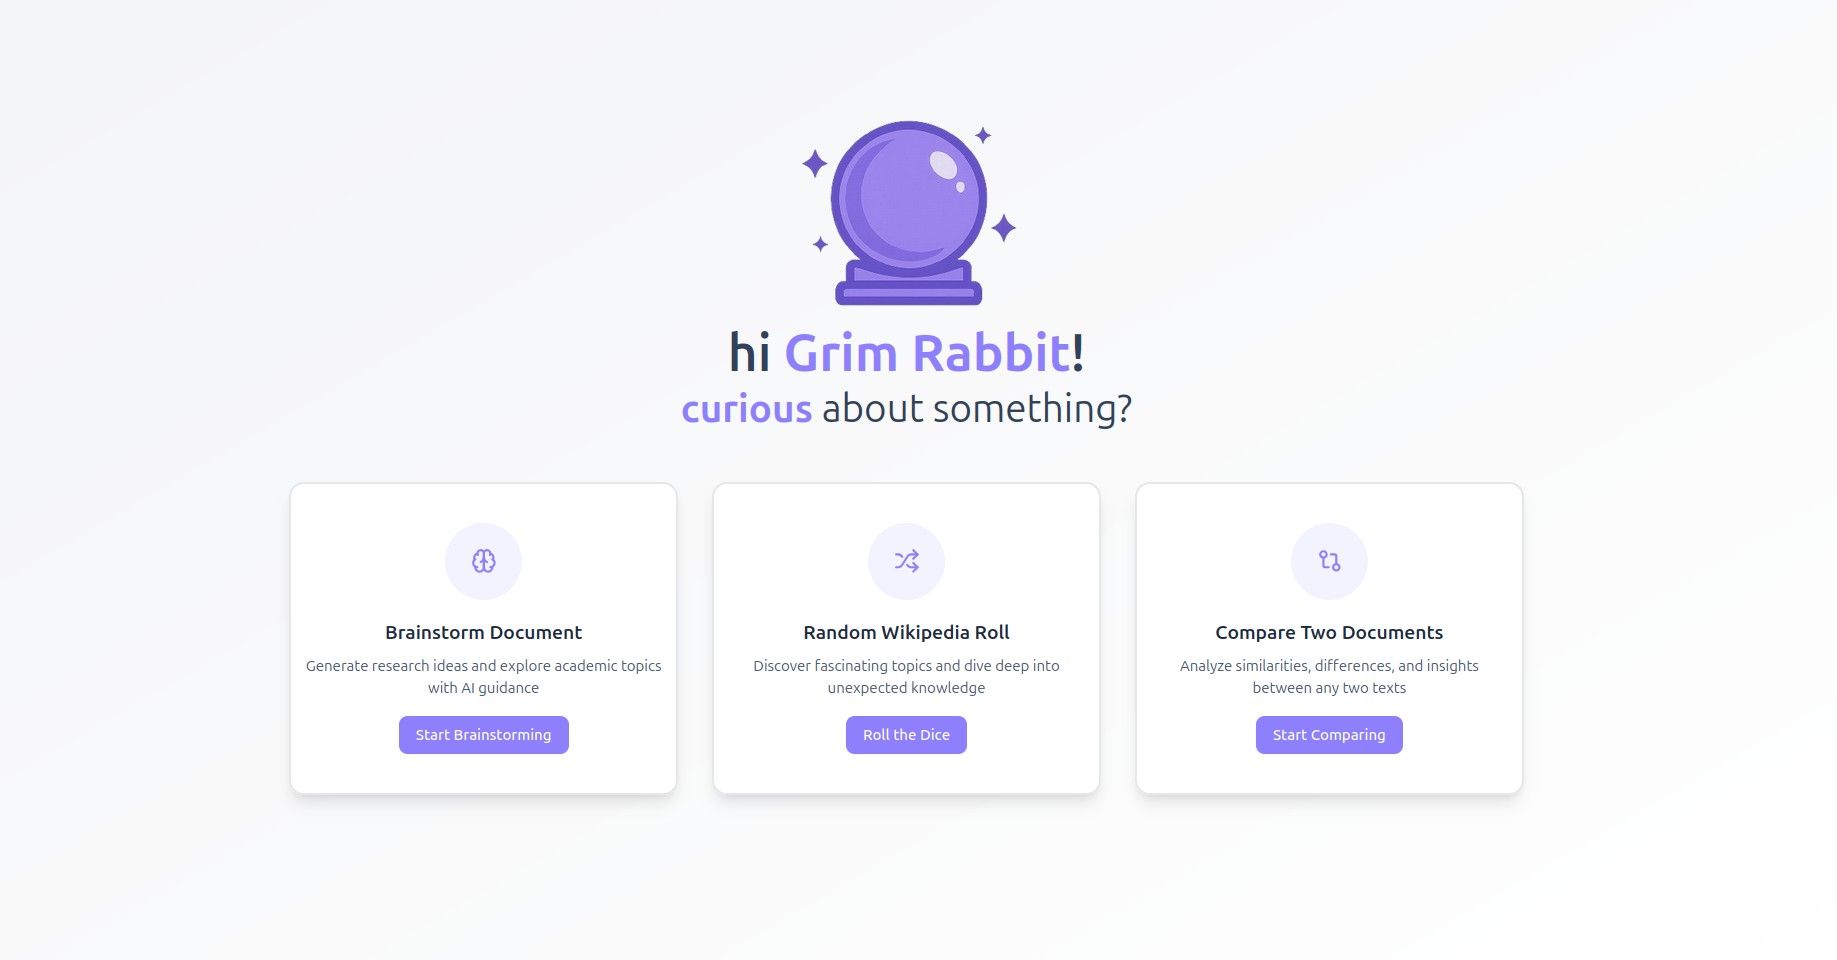
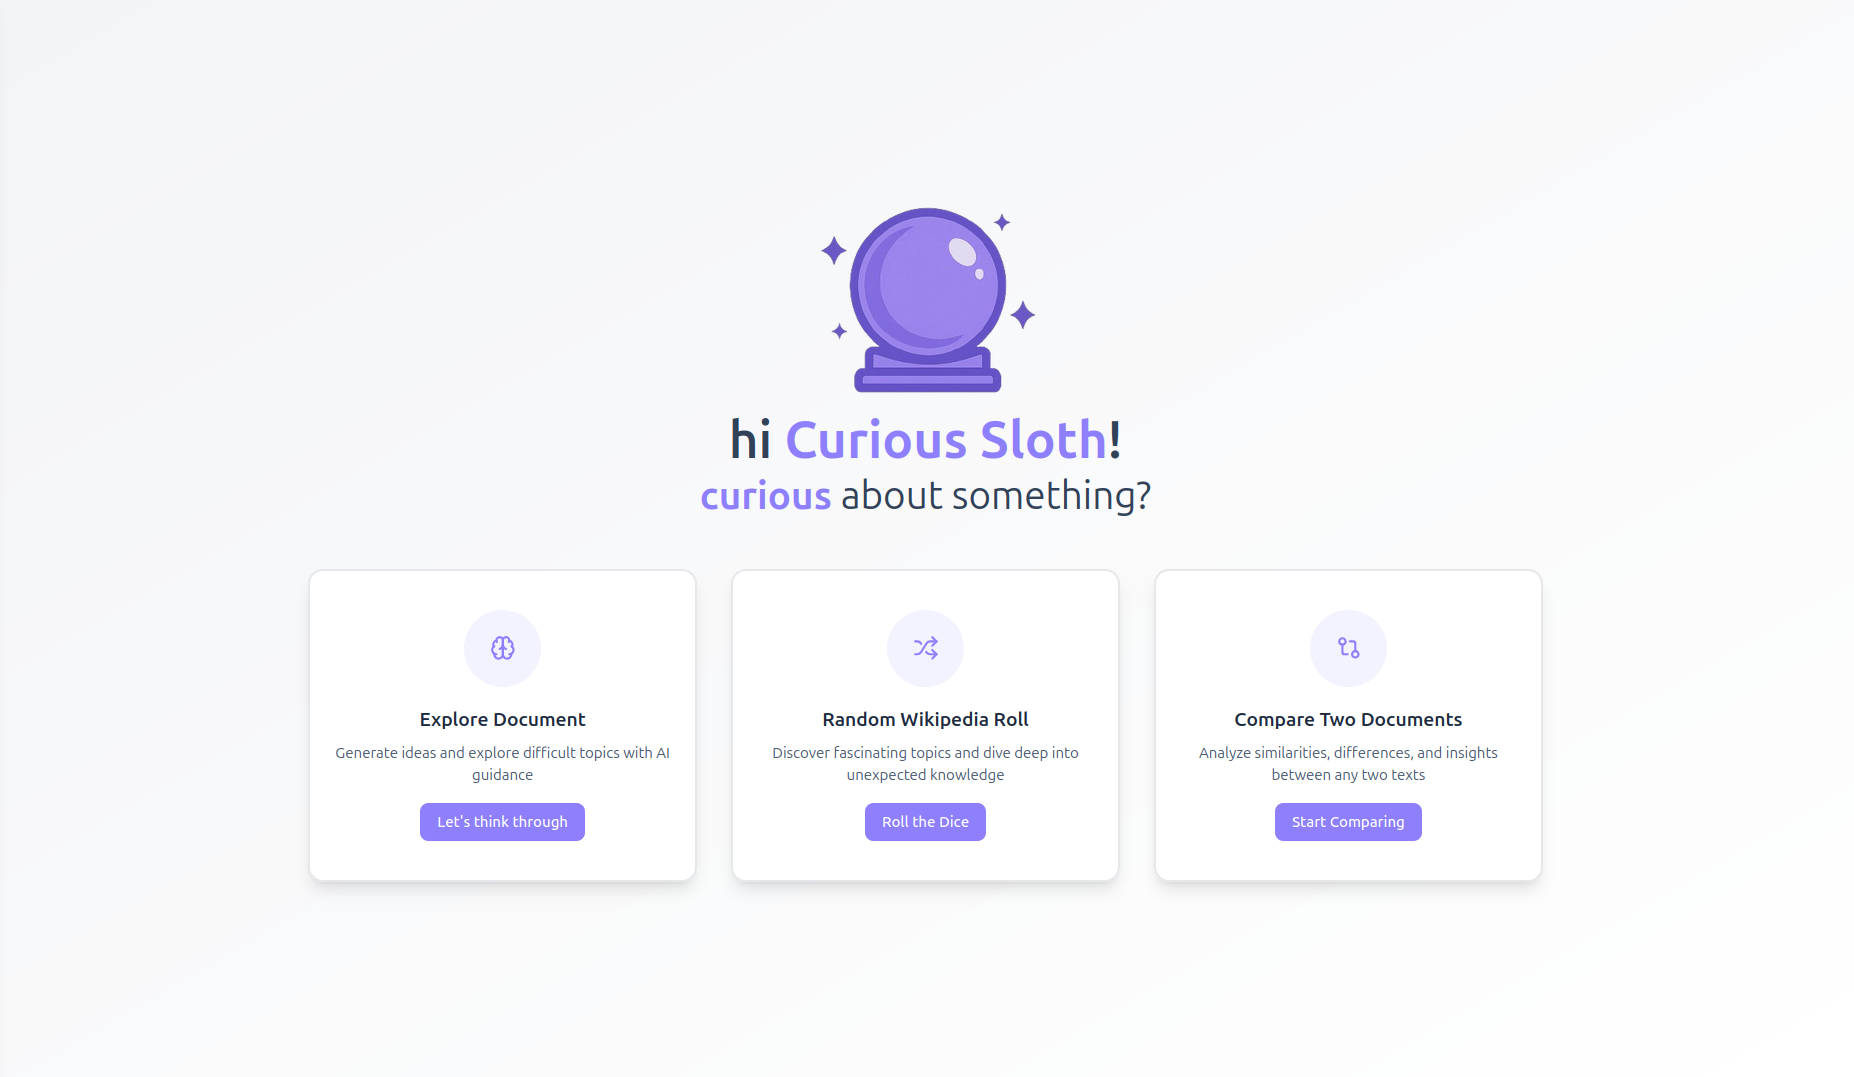
enhancement: ui fixes (#13)
* enhancement: ui titles

* enhancement: updated home

* enhancement: web view name

diff --git a/client/src/pages/LandingPage.jsx b/client/src/pages/LandingPage.jsx
@@ -4,7 +4,7 @@ import { Button } from "@/components/ui/button"
 import { Card, CardContent } from "@/components/ui/card"
 import { getStoredUsername } from "../lib/client.util"
 import logo from "@/assets/logo.png";
-import { Link, useLocation } from "react-router-dom"
+import { Link } from "react-router-dom"
 
 
 export default function LandingPage() {
@@ -18,10 +18,10 @@ export default function LandingPage() {
 
   const features = [
     {
-      title: "Brainstorm Document",
+      title: "Explore Document",
       icon: <Brain className="w-6 h-6 text-[#8E80FC]" />,
-      description: "Generate research ideas and explore academic topics with AI guidance",
-      action: "Start Brainstorming",
+      description: "Generate ideas and explore difficult topics with AI guidance",
+      action: "Let's think through",
       featureKey: "brainstorm",
       link: "/brainstorm-document"
     },

diff --git a/client/src/pages/ResearchDocument.jsx b/client/src/pages/ResearchDocument.jsx
@@ -31,7 +31,7 @@ export default function ResearchDocument() {
     },
     {
       id: 3,
-      title: "Brainstorming!",
+      title: "Explore!",
       description: "You can chat with June to get your queries answered!",
     },
   ];
@@ -74,7 +74,7 @@ export default function ResearchDocument() {
           <h1 className="text-5xl text-slate-800 mb-2">
             Upload a{" "}
             <span className="text-5xl font-bold text-[#8E80FC]">document</span>{" "}
-            and let's brainstorm!
+            and let's think through it!
           </h1>
         </motion.div>
 

diff --git a/client/index.html b/client/index.html
@@ -4,7 +4,7 @@
     <meta charset="UTF-8" />
     <link rel="icon" type="image/svg+xml" href="/vite.svg" />
     <meta name="viewport" content="width=device-width, initial-scale=1.0" />
-    <title>Project June - Your Research Bud</title>
+    <title>Project June - To think and not to think</title>
   </head>
   <body>
     <div id="root"></div>
